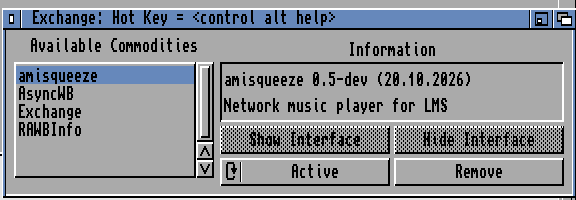
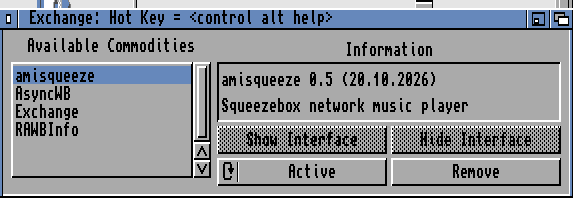
Release amisqueeze 0.5
LOG=<file>, start from the Workbench with an icon and ToolTypes, a
commodity stopped from Exchange. Fixed: the stack of amisqueeze (68020),
which overflowed a 4 KB Shell stack since 0.2; seeking in a FLAC decoded
on the Amiga; an MP3 whose LAME header counts 0 frames.

diff --git a/src/amisqueeze/slimproto.c b/src/amisqueeze/slimproto.c
@@ -21,7 +21,7 @@
 /* Advertised in HELO, followed by the formats played: only those really decoded (pcm always, flc and mp3 when
  * decoded here); the server converts the rest. HasDigitalOut=1: LMS then offers its "Volume Control" setting for
  * this player, whose "Output level is fixed at 100%" sends audg with adjust 0 (plan step 1.10, volume modes). */
-#define CAPS "Model=squeezelite,ModelName=AmiSqueeze,Firmware=0.5-dev,AccuratePlayPoints=0,HasDigitalOut=1," \
+#define CAPS "Model=squeezelite,ModelName=AmiSqueeze,Firmware=0.5,AccuratePlayPoints=0,HasDigitalOut=1," \
              "MaxSampleRate=48000,"
 
 /* ---- serialisation ---- */

diff --git a/src/amisqueeze/amiga.c b/src/amisqueeze/amiga.c
@@ -44,9 +44,9 @@
  * at link time (--gc-sections), and Version would find nothing. Not const: in the data hunk. In the code hunk,
  * AmigaOS 3.2's Version read "amiseeze 0.3" out of the 0.3 build, though the bytes were right. */
 #ifdef AMISQUEEZE_FPU
-static char version[] = "$VER: amisqueeze.fpu 0.5-dev (20.10.2026)";
+static char version[] = "$VER: amisqueeze.fpu 0.5 (20.10.2026)";
 #else
-static char version[] = "$VER: amisqueeze 0.5-dev (20.10.2026)";
+static char version[] = "$VER: amisqueeze 0.5 (20.10.2026)";
 #endif
 
 #ifdef AMISQUEEZE_FPU

diff --git a/CLAUDE.md b/CLAUDE.md
@@ -19,7 +19,8 @@ a build in between is not taken for the last release. 0.1 = first release (2026-
 robustness, tested in WinUAE only); 0.2 = second release (2026-10-19: FLAC decoded on fast Amigas, 8/24/32-bit
 PCM, tested in WinUAE only); 0.3 = third release (2026-10-20: MP3 decoded by `amisqueeze.fpu`, two executables,
 documentation reworked, tested in WinUAE only); 0.4 = fourth release (2026-10-20: MP3 without gaps, fixed volume
-through LMS, AHI mode warning), followed by 0.5-dev; the first public push of 2026-10-18 had no tag. The number
+through LMS, AHI mode warning); 0.5 = fifth release (2026-10-20: `LOG`, Workbench start, commodity, stack of
+`amisqueeze` and FLAC seek fixed), followed by 0.6-dev; the first public push of 2026-10-18 had no tag. The number
 appears in the two `$VER:` strings (`amiga.c`: `amisqueeze` and `amisqueeze.fpu`), in `Firmware=` of the `HELO`
 capabilities (`slimproto.c`) and in the user guide.
 
@@ -67,8 +68,11 @@ above 48 kHz not playable until FLAC decoding) done on 2026-10-19. Step 1.8 on t
 `FLAC=AUTO|ON|OFF`, `BENCH`); release 0.2 published on 2026-10-19, then 0.3-dev; 1.8c done on 2026-10-19 (MP3
 with minimp3 in `amisqueeze.fpu`, `MP3=AUTO|ON|OFF`); release 0.3 published on 2026-10-20. Release 0.4 the same
 day (1.8d MP3 without gaps, the volume modes done as LMS's fixed volume setting with `HasDigitalOut=1`, the AHI
-mode warning), then 0.5-dev. Next releases (decided 2026-10-20, table in `docs/development/README.md`): 0.5 =
-`LOG`, Workbench start; 0.6 = server discovery with the real machine (1.9). Then the remote's study (2.0).
+mode warning). Release 0.5 the same day (`LOG`, Workbench start with icons and ToolTypes, a commodity, the stack
+of `amisqueeze` and FLAC seek fixed, the outside review's points: see "Outside review" in
+`docs/development/README.md`), then 0.6-dev. Next releases (decided 2026-10-20, table in
+`docs/development/README.md`): 0.6 = server discovery with the real machine (1.9), internet radios' metadata
+(ICY). Then the remote's study (2.0).
 Documentation review of 2026-10-19: points announced in the plan but neither done nor dropped are listed under
 "Open points" in `docs/development/README.md`, for the user to decide (never implement them unasked).
 

diff --git a/CHANGELOG.md b/CHANGELOG.md
@@ -7,6 +7,8 @@ are previews, tested in WinUAE only, not yet on a real Amiga.
 
 ## [Unreleased]
 
+## [0.5] - 2026-10-20
+
 ### Added
 
 - **`LOG=<file>`**: a copy of every message in a file while they still appear in the window; each run is appended
@@ -22,12 +24,12 @@ are previews, tested in WinUAE only, not yet on a real Amiga.
 - **`amisqueeze` overflowed its stack when started from a Shell** with the usual 4 KB stack: the FLAC decoder
   needs about 5.5 KB, already at start-up (speed measure). AmigaOS does not detect it: a crash or a hang could
   follow at any later time. Both executables now set up the stack they need themselves (16 KB for `amisqueeze`,
-  32 KB for `amisqueeze.fpu`, which already did). Broken since 0.2; started from its icon, it was not affected.
+  32 KB for `amisqueeze.fpu`, which already did). Broken since 0.2.
 - **Seeking in a FLAC track decoded on the Amiga** skipped the track (`flac: not a FLAC stream, track skipped`),
   and so did LMS resuming a FLAC track when the player reconnects: LMS then sends the file from the middle,
   without its header. Broken since FLAC decoding came in (0.2).
 - An MP3 file whose LAME header counts 0 frames (a broken header) would have been decoded and then dropped whole,
-  in silence: it now plays in full (0.4).
+  in silence: it now plays in full. Broken since 0.4.
 
 ## [0.4] - 2026-10-20
 
@@ -94,7 +96,8 @@ Lyrion Music Server (LMS) as a player and plays through AHI.
 - Options `SERVER`, `PORT`, `NAME`, `MAC`, `UNIT` (AHI unit), `SWAP`, `NOAUDIO`, `OUTPUT`, `VERBOSE`; default
   options in `ENV:amisqueeze.prefs`.
 
-[Unreleased]: https://github.com/shadow38/amiga-network-music/compare/amisqueeze-0.4...HEAD
+[Unreleased]: https://github.com/shadow38/amiga-network-music/compare/amisqueeze-0.5...HEAD
+[0.5]: https://github.com/shadow38/amiga-network-music/compare/amisqueeze-0.4...amisqueeze-0.5
 [0.4]: https://github.com/shadow38/amiga-network-music/compare/amisqueeze-0.3...amisqueeze-0.4
 [0.3]: https://github.com/shadow38/amiga-network-music/compare/amisqueeze-0.2...amisqueeze-0.3
 [0.2]: https://github.com/shadow38/amiga-network-music/compare/amisqueeze-0.1...amisqueeze-0.2

diff --git a/docs/development/README.md b/docs/development/README.md
@@ -72,13 +72,13 @@ How to build and test: [CONTRIBUTING.md](../../CONTRIBUTING.md).
 | 2.12 remote: MPD | ⬜ idea, after Music Assistant |
 | 3.1 Licence and user documentation | 🔶 licence: MIT; user guide kept up to date |
 | 3.2 Aminet archive | ⬜ |
-| 3.3 Public versions | 🔶 0.1 to 0.4 published (tags, GitHub releases, changelog); CI: host tests |
+| 3.3 Public versions | 🔶 0.1 to 0.5 published (tags, GitHub releases, changelog); CI: host tests |
 | 3.4 Setup guides: minimal server, the Amiga on the network | ⬜ before 1.0 |
 
 Phase 0 moves forward as needed: a tooling step is done when a step of phase 1 or 2 needs it. Phases 1 and 2 can
-progress in parallel. Release 0.4 was published on 2026-10-20 (MP3 without gaps, fixed volume through LMS, AHI
-mode warning; 0.3 the same day: MP3 decoded by `amisqueeze.fpu`; 0.2 on 2026-10-19: FLAC, 8/24/32-bit PCM). Next:
-0.5.
+progress in parallel. Release 0.5 was published on 2026-10-20 (`LOG`, start from the Workbench, a commodity, the
+stack of `amisqueeze` and seeking in a FLAC fixed; 0.4 the same day: MP3 without gaps, fixed volume through LMS,
+AHI mode warning; 0.3 too: MP3 decoded by `amisqueeze.fpu`; 0.2 on 2026-10-19: FLAC, 8/24/32-bit PCM). Next: 0.6.
 
 **Next releases** (decided with the user on 2026-10-20): what can be tested to the end from the development machine
 (host tests, WinUAE) comes first, what needs the real Amiga and a home network last.

diff --git a/docs/development/phase-3-release.md b/docs/development/phase-3-release.md
@@ -26,7 +26,7 @@ Back to the [plan](README.md).
   and the user guide) and short notes approved by the user; between releases the version reads `<next>-dev`.
   amisqueeze 0.3 (2026-10-20): the zip holds both executables (`amisqueeze`, `amisqueeze.fpu`), `CHANGELOG.md`
   (Keep a Changelog, at the root, since 0.3) and the user guide's images; the release notes end with a link to the
-  changelog. amisqueeze 0.4 (2026-10-20): the same.
+  changelog. amisqueeze 0.4 and 0.5 (2026-10-20): the same; since 0.5 the zip also holds the Workbench icons.
 - **Continuous integration** (decided 2026-10-19): GitHub Actions, in two parts. First, done before 0.3: on each
   push, `make test` (host build, unit tests, fake server) on GitHub's Linux machine; the badge or the run's page
   tells whether a commit passes. Then, before 1.0: the Amiga build (the `amigadev/crosstools` image, the Docker mode of

diff --git a/README.md b/README.md
@@ -39,7 +39,7 @@ spoken by free software on both sides.
 ## Quick start
 
 1. **Download** the zip of the latest [release](https://github.com/shadow38/amiga-network-music/releases)
-   (0.4: a preview tested in WinUAE only, not yet on a real Amiga). It holds amisqueeze and the user guide;
+   (0.5: a preview tested in WinUAE only, not yet on a real Amiga). It holds amisqueeze and the user guide;
    what changed from one version to the next is in the [changelog](CHANGELOG.md).
 2. **Pick the executable** and copy it to `C:`: `amisqueeze` for any Amiga with a 68020 or better;
    `amisqueeze.fpu` for an Amiga with an FPU, which also decodes MP3.

diff --git a/docs/user-guide.md b/docs/user-guide.md
@@ -12,7 +12,7 @@ tested yet. The server (and its web interface or apps) sees and controls it like
 
 ### Current state
 
-Version 0.5 in development. The latest release, 0.4, is a preview: tested in WinUAE only, not yet on a real Amiga.
+Version 0.5, a preview: tested in WinUAE only, not yet on a real Amiga.
 
 What amisqueeze does:
 
